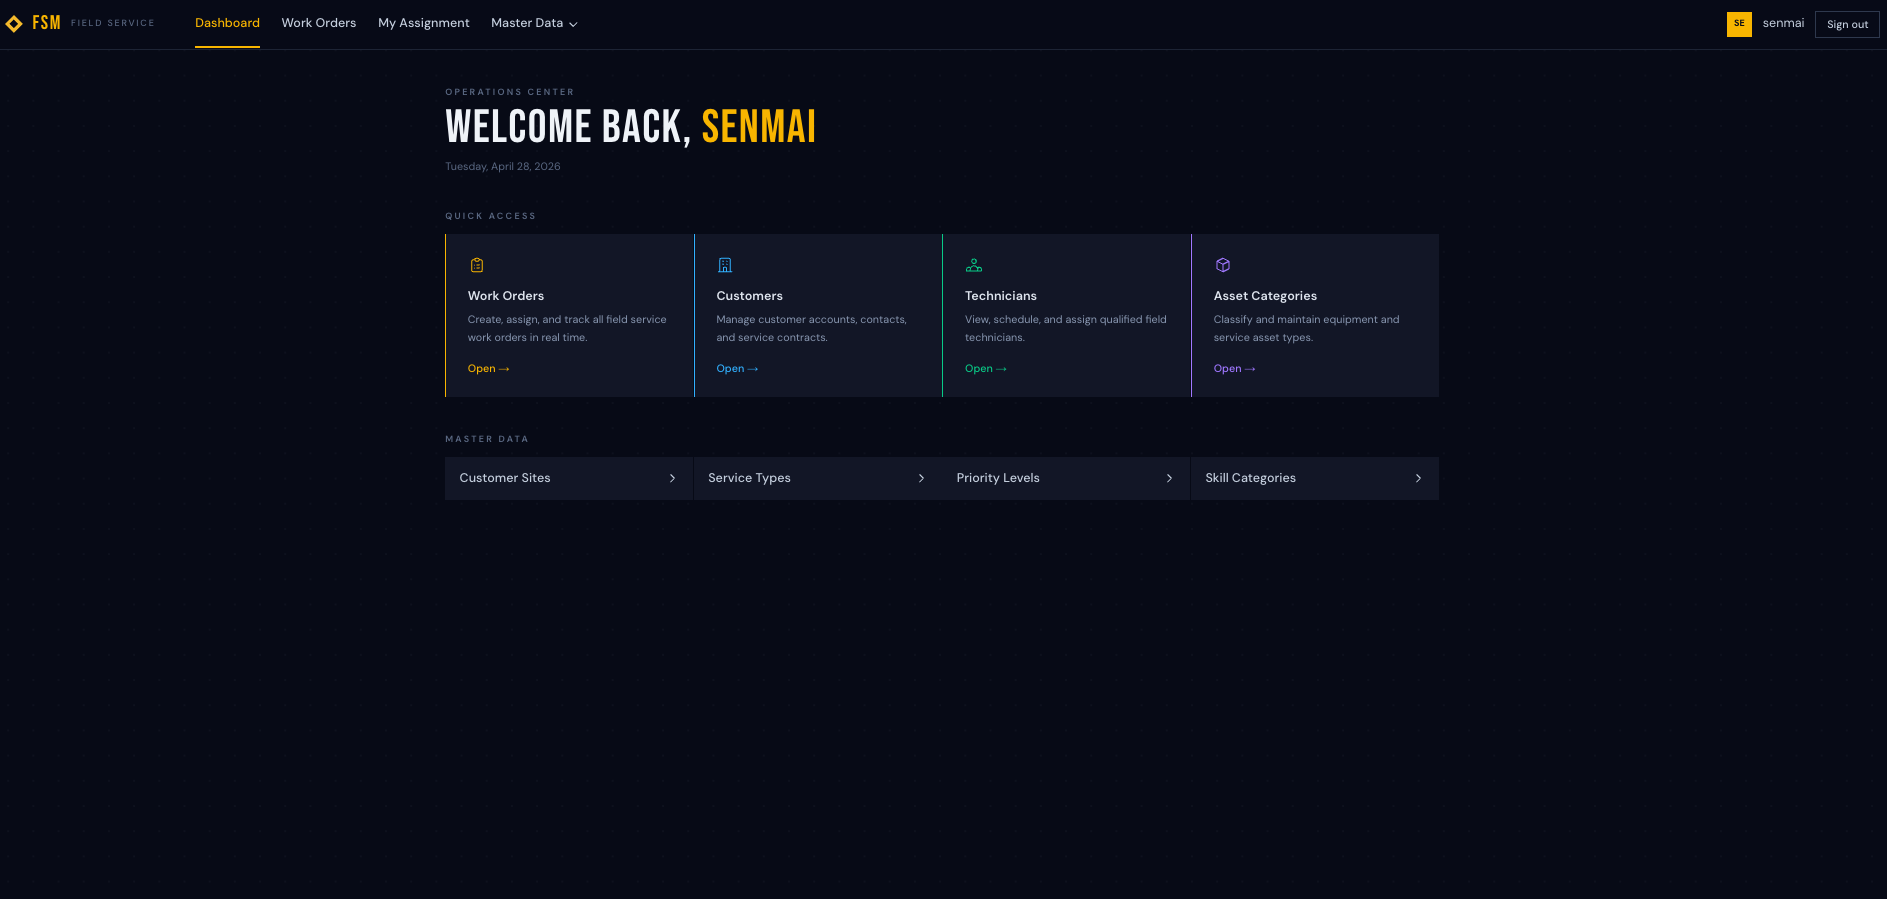
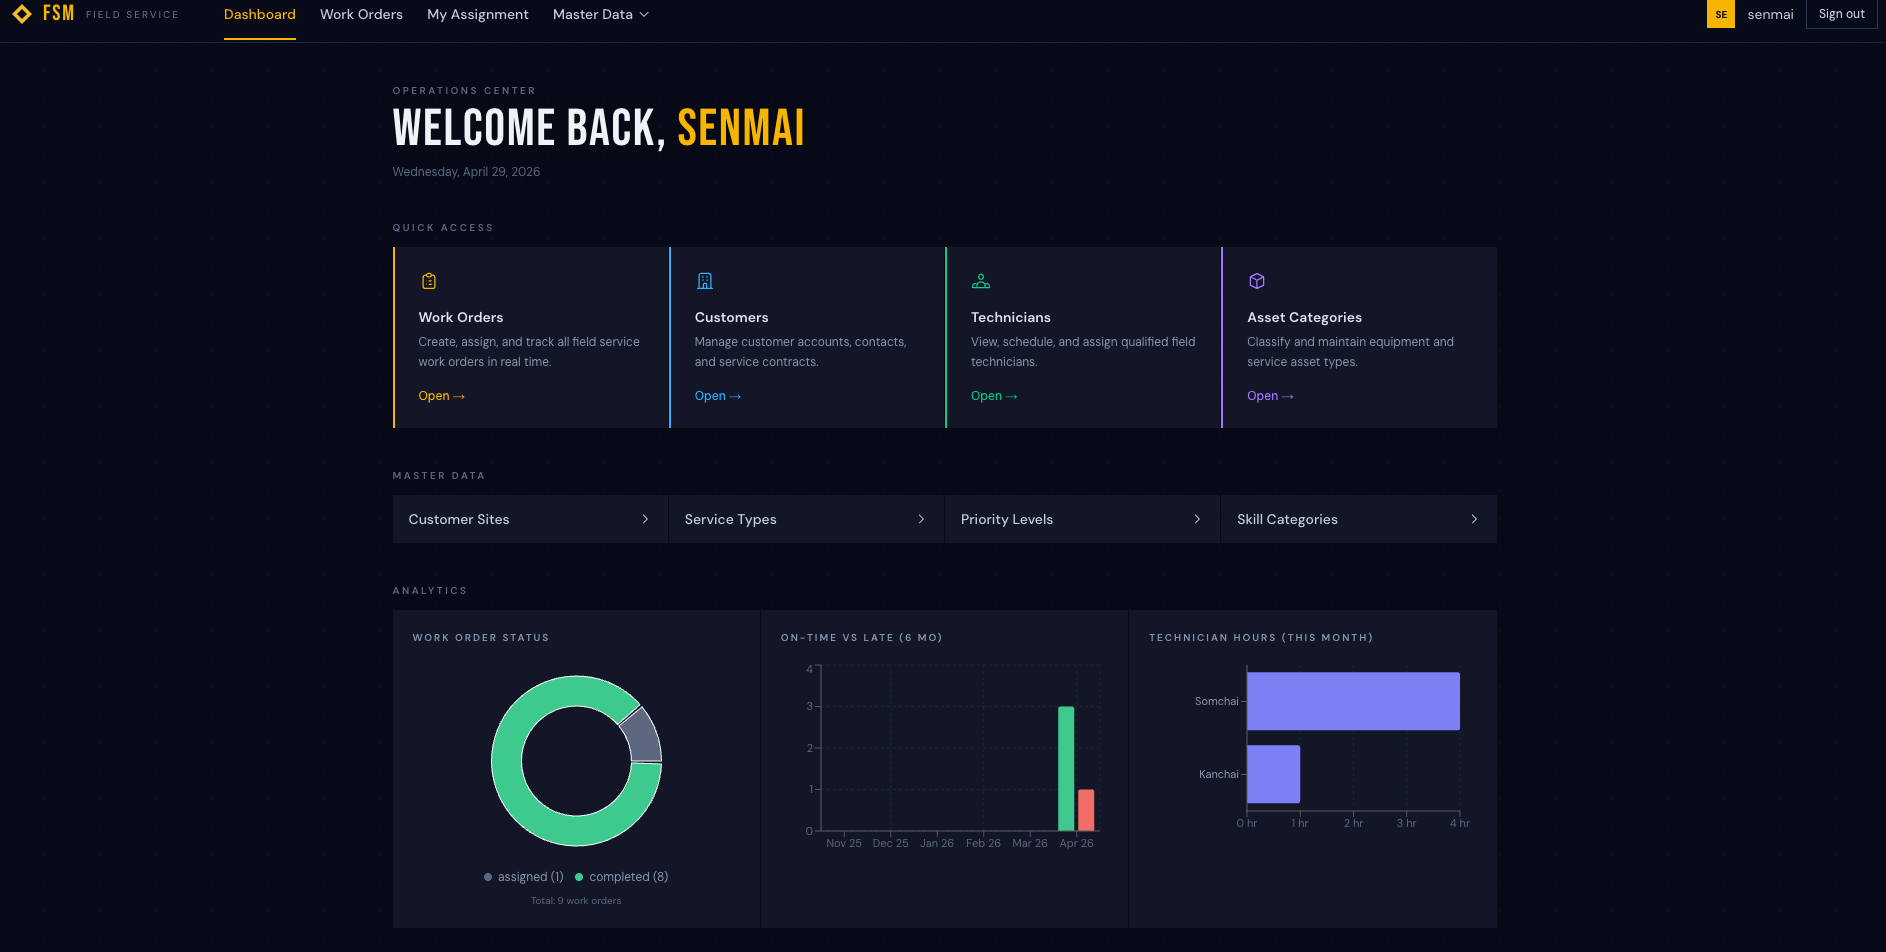
Update user manual for new feature

diff --git a/usermanual/fieldservicemanagement/manual.html b/usermanual/fieldservicemanagement/manual.html
@@ -340,6 +340,11 @@
     <span class="toc-title">สถานะ Work Order ทั้งหมด <span class="sub">Work Order Status Reference</span></span>
     <span class="toc-page-num">17</span>
   </div>
+  <div class="toc-item">
+    <span class="toc-num">9</span>
+    <span class="toc-title">Dashboard Analytics <span class="sub">Analytics &amp; Charts</span></span>
+    <span class="toc-page-num">19</span>
+  </div>
 </div>
 
 <!-- ════════════════════════════════════════════
@@ -779,6 +784,16 @@
     </div>
   </div>
 
+  <div class="info-box">
+    ℹ <strong>Asset ที่แสดงในรายการ / Available Assets Only:</strong><br>
+    Dropdown เลือก Asset จะแสดงเฉพาะ Asset ที่ <strong>ไม่ได้ผูกอยู่กับ Work Order ที่ยังค้างอยู่</strong>
+    (สถานะ Open หรือ In Progress) เท่านั้น Asset ที่กำลังถูกใช้งานในงานที่ยังไม่เสร็จจะไม่ปรากฏในรายการ
+    เพื่อป้องกันการมอบหมายงานซ้ำซ้อนบนอุปกรณ์เดิม<br>
+    <em>The Asset dropdown shows only assets that are <strong>not linked to any pending Work Order</strong>
+    (status: Open or In Progress). Assets already in use will not appear in the list,
+    preventing duplicate job assignments on the same equipment.</em>
+  </div>
+
   <!--<div class="screenshot-box">
     <div class="icon">📋</div>
     <div class="label">Screenshot: หน้าสร้าง Work Order / Create Work Order Form</div>
@@ -1059,6 +1074,184 @@
       </div>
     </div>
   </div>
+
+  <!-- Footer -->
+  <div style="margin-top:60px; padding-top:24px; border-top:1px solid #e2e8f0; text-align:center; color:#94a3b8; font-size:11px; letter-spacing:0.1em;">
+    FIELD SERVICE MANAGEMENT SYSTEM — USER MANUAL v1.0 &nbsp;|&nbsp; 2025<br>
+    field-service-management-ui.vercel.app
+  </div>
+</div>
+
+<!-- ════════════════════════════════════════════
+     SECTION 9 — DASHBOARD ANALYTICS
+════════════════════════════════════════════ -->
+<div class="section">
+  <div class="section-header">
+    <div class="section-num">9</div>
+    <div class="section-title">
+      <h3>Dashboard Analytics</h3>
+      <p>Analytics &amp; Charts — ภาพรวมสถิติงาน</p>
+    </div>
+  </div>
+
+  <div class="lang-block">
+    <span class="lang-badge lang-th">ภาษาไทย</span>
+    <div class="content-text">
+      หน้า Dashboard มีส่วน <strong>"Analytics"</strong> ที่แสดงกราฟสรุปสถิติงาน 3 กราฟ
+      ช่วยให้ผู้ดูแลระบบสามารถติดตามภาพรวมการดำเนินงาน ประสิทธิภาพการส่งมอบงาน
+      และชั่วโมงทำงานของช่างได้ในหน้าเดียว
+    </div>
+  </div>
+  <div class="lang-block">
+    <span class="lang-badge lang-en">English</span>
+    <div class="content-text">
+      The Dashboard includes an <strong>"Analytics"</strong> section displaying three summary charts,
+      giving administrators a single-page view of overall work order distribution,
+      on-time delivery performance, and individual technician workload.
+    </div>
+  </div>
+
+  <!-- 9.1 Work Order Status -->
+  <h4 style="margin:28px 0 12px; font-size:16px; color:#0f172a; border-left:3px solid #fbbf24; padding-left:12px;">
+    9.1 Work Order Status (Donut Chart)
+  </h4>
+
+  <div class="lang-block">
+    <span class="lang-badge lang-th">ภาษาไทย</span>
+    <div class="content-text">
+      กราฟวงกลม (Donut Chart) แสดง <strong>สัดส่วนของ Work Order แต่ละสถานะ</strong>
+      ในระบบ ณ ขณะนั้น ประกอบด้วยสี่สถานะหลัก ได้แก่
+      <strong>Open, In Progress, Completed</strong> และ <strong>Cancelled</strong>
+      ช่วยให้เห็นว่างานส่วนใหญ่อยู่ในสถานะใด และมีงานค้างคลั่งเท่าใด
+    </div>
+  </div>
+  <div class="lang-block">
+    <span class="lang-badge lang-en">English</span>
+    <div class="content-text">
+      The Donut Chart displays the <strong>proportion of Work Orders by status</strong>
+      currently in the system, covering four main statuses:
+      <strong>Open, In Progress, Completed</strong>, and <strong>Cancelled</strong>.
+      This gives an at-a-glance view of workload distribution and backlog size.
+    </div>
+  </div>
+
+  <!--<div class="screenshot-box">
+    <div class="icon">🍩</div>
+    <div class="label">Screenshot: Work Order Status — Donut Chart</div>
+    <div class="desc">Dashboard → Analytics → Work Order Status</div>
+  </div>-->
+  <img src="screenshot/wo_donut.png" alt="wo_status"
+     style="max-width:100%; border-radius:8px; margin:20px 0; border:1px solid #e2e8f0;">
+
+  <!-- 9.2 On-Time vs Late -->
+  <h4 style="margin:28px 0 12px; font-size:16px; color:#0f172a; border-left:3px solid #fbbf24; padding-left:12px;">
+    9.2 On-Time vs Late (Bar Chart)
+  </h4>
+
+  <div class="lang-block">
+    <span class="lang-badge lang-th">ภาษาไทย</span>
+    <div class="content-text">
+      กราฟแท่ง (Bar Chart) แบบรายเดือน ย้อนหลัง <strong>6 เดือน</strong>
+      แสดงจำนวนงานที่ <strong>เสร็จตรงเวลา (On-Time)</strong> เปรียบเทียบกับงานที่
+      <strong>เสร็จล่าช้า (Late)</strong> โดยใช้ <strong>Scheduled End</strong>
+      เป็น Deadline ในการตัดสิน หากงานเสร็จก่อนหรือตรงกับเวลานัดหมายถือว่า On-Time
+    </div>
+  </div>
+  <div class="lang-block">
+    <span class="lang-badge lang-en">English</span>
+    <div class="content-text">
+      A monthly Bar Chart covering the <strong>last 6 months</strong>, comparing the number of
+      <strong>On-Time</strong> completions against <strong>Late</strong> completions.
+      The <strong>Scheduled End</strong> date/time is used as the deadline —
+      a work order is considered On-Time if it is completed on or before the scheduled end.
+    </div>
+  </div>
+
+  <div class="tip-box">
+    💡 <strong>เงื่อนไขการนับ / Counting Rule:</strong>
+    งานจะถูกนำมาคำนวณในกราฟนี้เฉพาะงานที่มีสถานะ <strong>Completed</strong> เท่านั้น
+    งานที่ยังค้างอยู่หรือถูกยกเลิกจะไม่ถูกนับ<br>
+    <em>Only Work Orders with status <strong>Completed</strong> are counted in this chart.
+    Pending or cancelled work orders are excluded.</em>
+  </div>
+
+  <!--<div class="screenshot-box">
+    <div class="icon">📊</div>
+    <div class="label">Screenshot: On-Time vs Late — Monthly Bar Chart (6 months)</div>
+    <div class="desc">Dashboard → Analytics → On-Time vs Late</div>
+  </div>-->
+  <img src="screenshot/ontime_late.png" alt="ontime_late"
+     style="max-width:100%; border-radius:8px; margin:20px 0; border:1px solid #e2e8f0;">
+
+  <!-- 9.3 Technician Hours -->
+  <h4 style="margin:28px 0 12px; font-size:16px; color:#0f172a; border-left:3px solid #fbbf24; padding-left:12px;">
+    9.3 Technician Hours (Horizontal Bar Chart)
+  </h4>
+
+  <div class="lang-block">
+    <span class="lang-badge lang-th">ภาษาไทย</span>
+    <div class="content-text">
+      กราฟแท่งแนวนอน (Horizontal Bar Chart) แสดง <strong>ชั่วโมงทำงานสะสมของช่างแต่ละคน</strong>
+      ในเดือนปัจจุบัน โดยนับเฉพาะงานที่มีสถานะ <strong>Completed</strong> เท่านั้น
+      ช่วยให้เห็นปริมาณงานของช่างแต่ละคน และสามารถวางแผนการมอบหมายงานให้สมดุลได้
+    </div>
+  </div>
+  <div class="lang-block">
+    <span class="lang-badge lang-en">English</span>
+    <div class="content-text">
+      A Horizontal Bar Chart showing the <strong>accumulated working hours per technician</strong>
+      for the current month. Only work orders with status <strong>Completed</strong> are included
+      in the calculation. This helps identify workload imbalances and plan technician assignments accordingly.
+    </div>
+  </div>
+
+  <div class="info-box">
+    ℹ <strong>วิธีคำนวณชั่วโมง / Hour Calculation:</strong>
+    ระบบคำนวณจาก <strong>Actual Start</strong> ถึง <strong>Actual End</strong> ของงานแต่ละใบที่ Completed
+    ในเดือนปัจจุบัน หากช่างรับผิดชอบหลายงาน ชั่วโมงจะถูกรวมเข้าด้วยกัน<br>
+    <em>Hours are calculated from <strong>Actual Start</strong> to <strong>Actual End</strong>
+    for each Completed work order in the current month.
+    If a technician has multiple completed jobs, their hours are summed.</em>
+  </div>
+
+  <!--<div class="screenshot-box">
+    <div class="icon">👷</div>
+    <div class="label">Screenshot: Technician Hours — Horizontal Bar Chart (Current Month)</div>
+    <div class="desc">Dashboard → Analytics → Technician Hours</div>
+  </div>-->
+  <img src="screenshot/technician_hours.png" alt="technician_hours"
+     style="max-width:100%; border-radius:8px; margin:20px 0; border:1px solid #e2e8f0;">
+
+  <!-- Summary Table -->
+  <h4 style="margin:28px 0 12px; font-size:15px; color:#0f172a;">
+    สรุปกราฟ Analytics / Analytics Charts Summary
+  </h4>
+  <table>
+    <tr>
+      <th>กราฟ / Chart</th>
+      <th>ประเภท / Type</th>
+      <th>ข้อมูลที่แสดง / Data Shown</th>
+      <th>ช่วงเวลา / Period</th>
+    </tr>
+    <tr>
+      <td><strong>Work Order Status</strong></td>
+      <td>Donut Chart</td>
+      <td>สัดส่วนงานแต่ละสถานะ<br><em>Work orders by status</em></td>
+      <td>ปัจจุบัน / Current</td>
+    </tr>
+    <tr>
+      <td><strong>On-Time vs Late</strong></td>
+      <td>Bar Chart</td>
+      <td>งานตรงเวลา vs ล่าช้า (Completed เท่านั้น)<br><em>On-time vs late completions only</em></td>
+      <td>6 เดือนย้อนหลัง<br><em>Last 6 months</em></td>
+    </tr>
+    <tr>
+      <td><strong>Technician Hours</strong></td>
+      <td>Horizontal Bar</td>
+      <td>ชั่วโมงสะสมต่อช่าง (Completed เท่านั้น)<br><em>Accumulated hours per technician</em></td>
+      <td>เดือนปัจจุบัน<br><em>Current month</em></td>
+    </tr>
+  </table>
 
   <!-- Footer -->
   <div style="margin-top:60px; padding-top:24px; border-top:1px solid #e2e8f0; text-align:center; color:#94a3b8; font-size:11px; letter-spacing:0.1em;">
